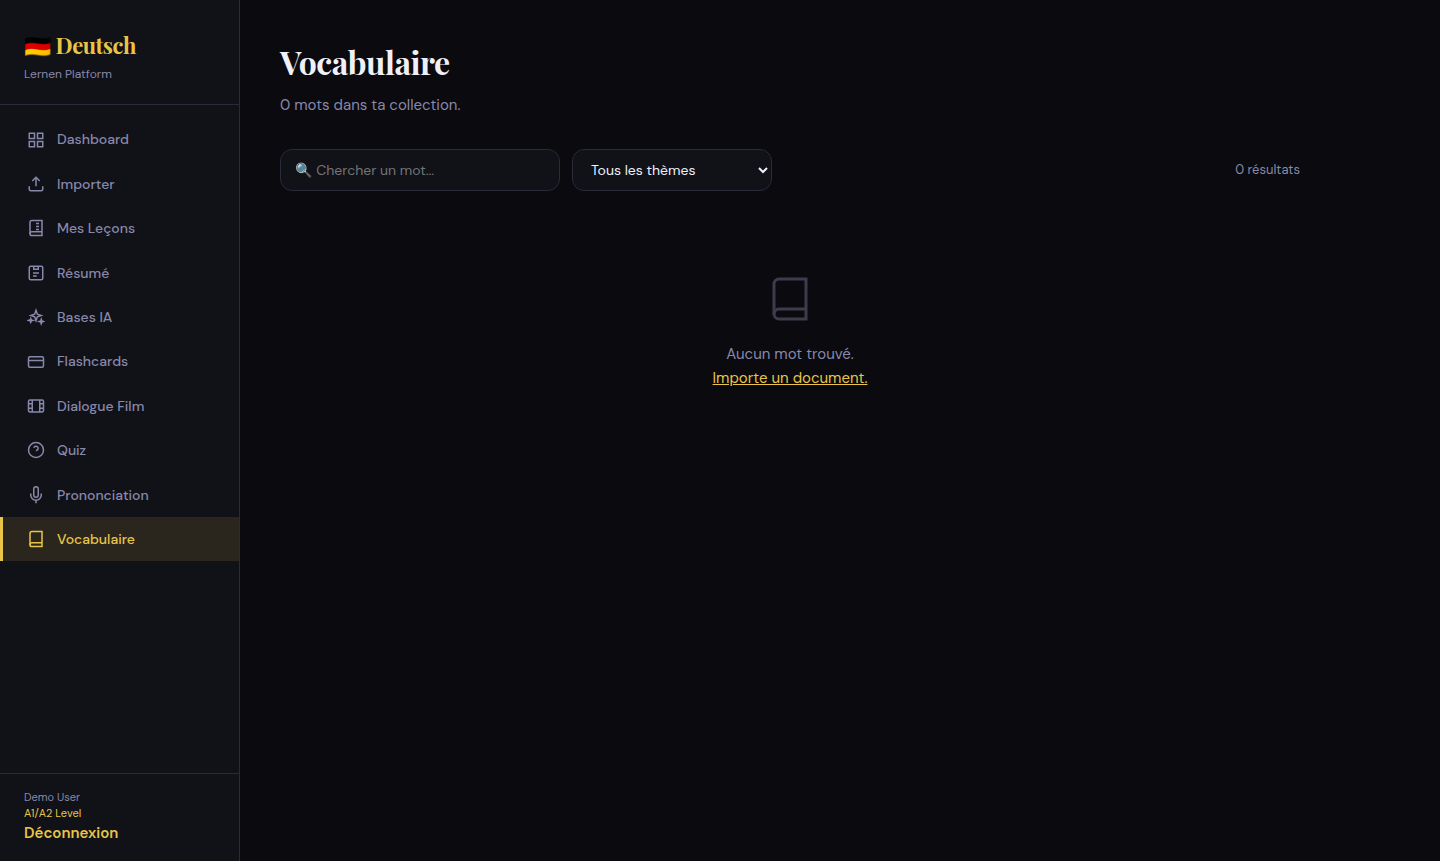
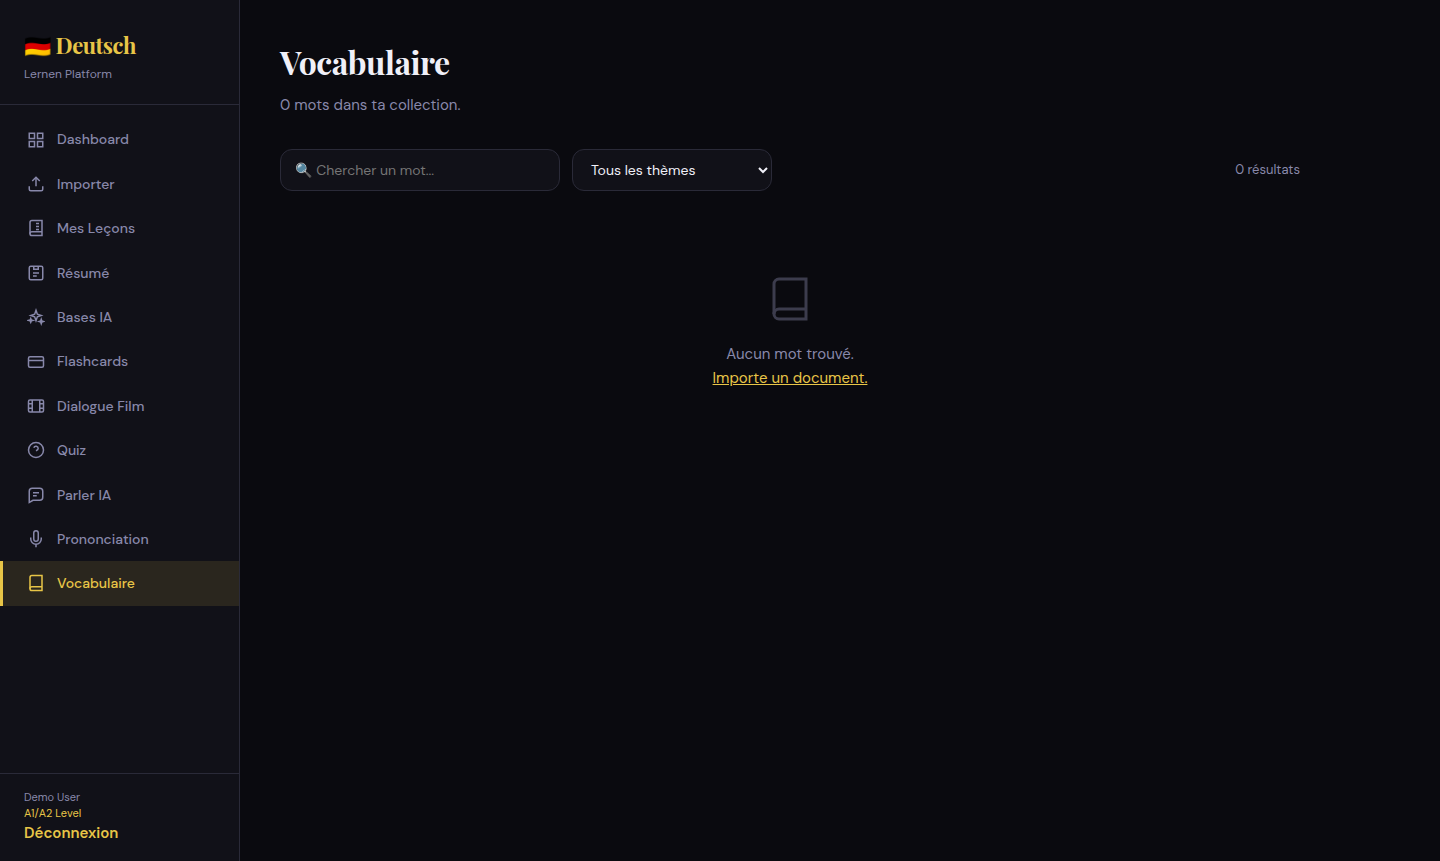
Update README screenshots

Changed region(s): [[0.0, 0.5738, 0.1875, 0.7247]]

diff --git a/README.md b/README.md
@@ -77,6 +77,10 @@ Or run each service manually from the `backend` and `frontend` folders as descri
 
 ![DeutschScene AI quiz page](docs/screenshots/quiz.png)
 
+### AI Conversation Practice
+
+![DeutschScene AI conversation practice page](docs/screenshots/conversation.png)
+
 ### Pronunciation
 
 ![DeutschScene AI pronunciation page](docs/screenshots/pronunciation.png)
